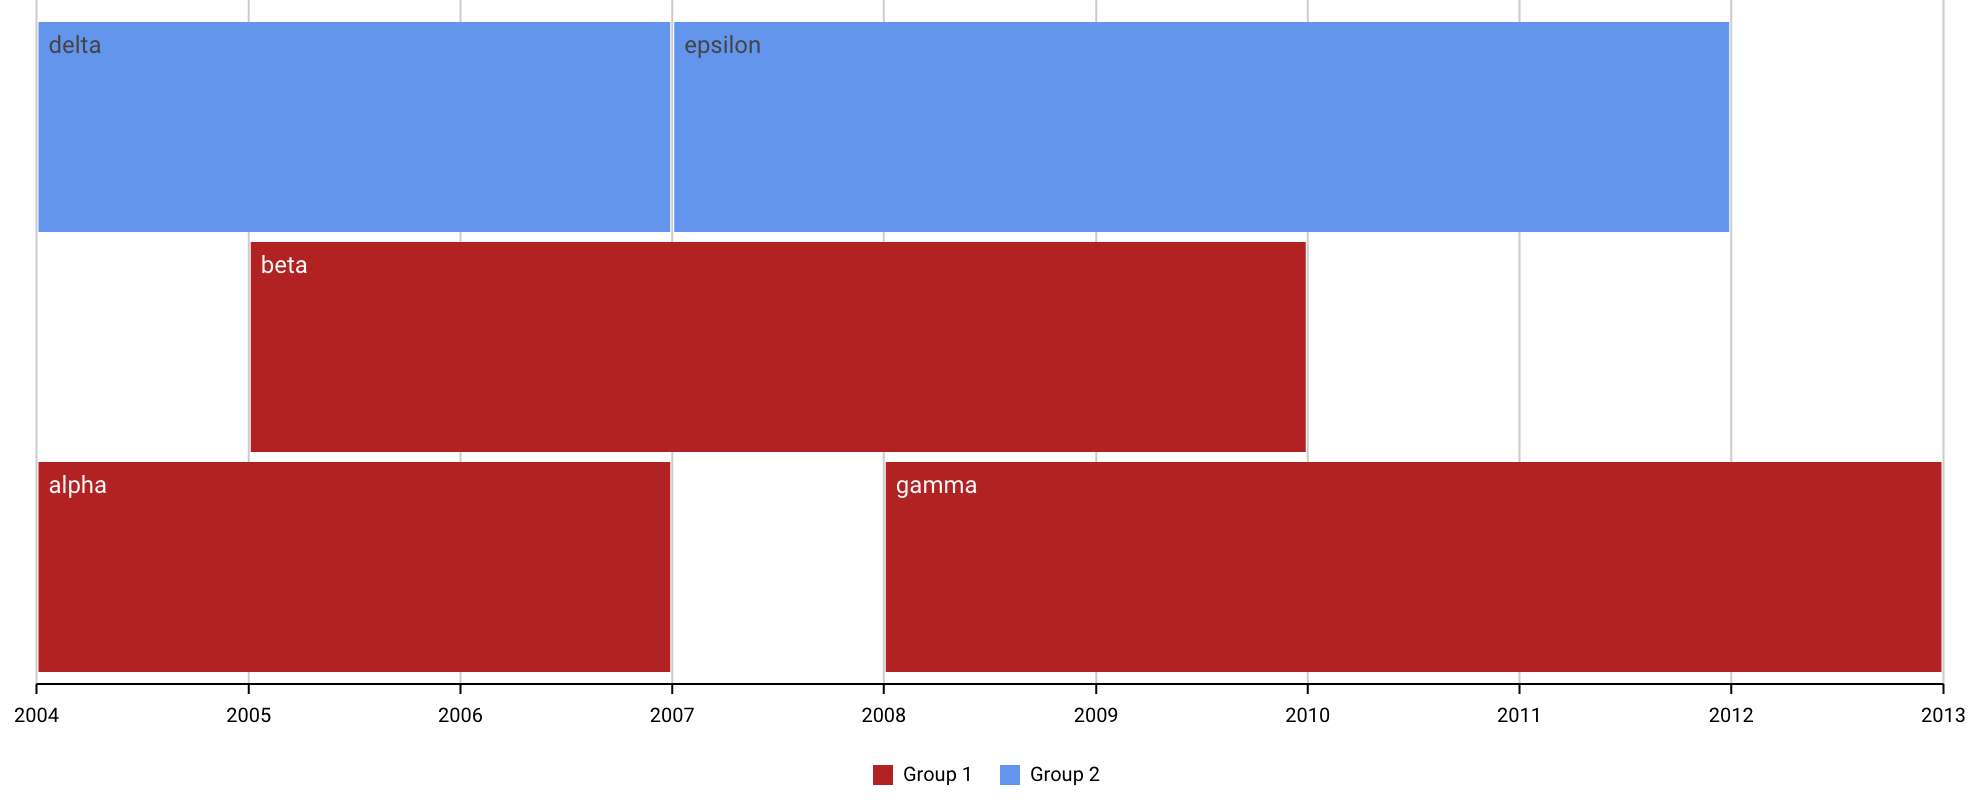
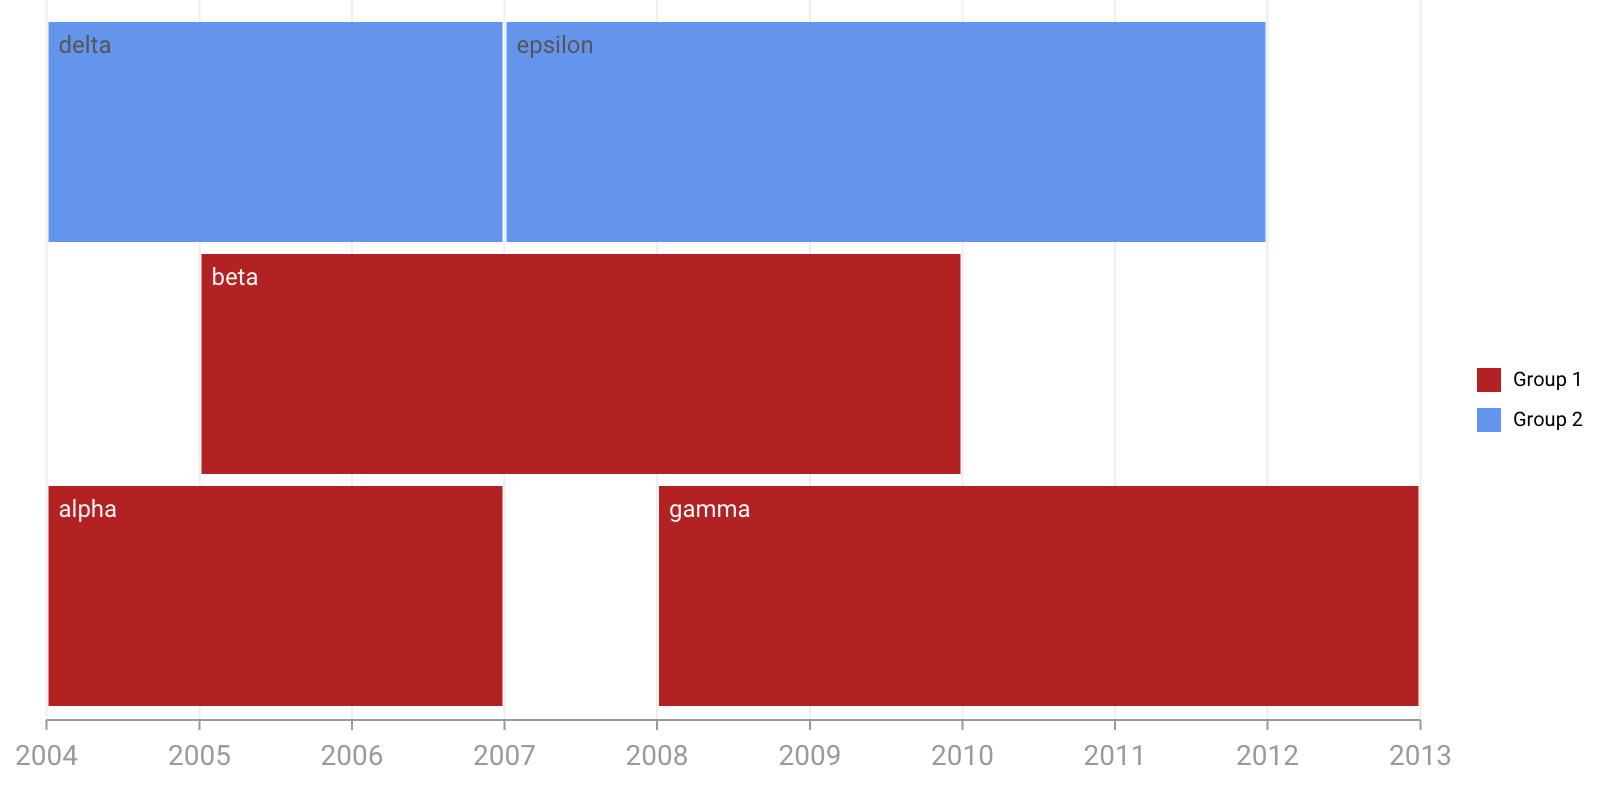
d3plus-priestley examples

diff --git a/_examples/d3plus-priestley/grouping/embed.html b/_examples/d3plus-priestley/grouping/embed.html
@@ -6,7 +6,7 @@
     <meta charset="utf-8">
     <title>Grouping Priestley Bars into Lanes | D3plus</title>
 
-    <script src="https://d3plus.org/js/d3plus-priestley.v0.4.full.min.js"></script>
+    <script src="https://d3plus.org/js/d3plus-priestley.v1.0.full.min.js"></script>
 
     <style>
 

diff --git a/_examples/d3plus-priestley/getting-started/embed.html b/_examples/d3plus-priestley/getting-started/embed.html
@@ -6,7 +6,7 @@
     <meta charset="utf-8">
     <title>Simple Priestley Diagram | D3plus</title>
 
-    <script src="https://d3plus.org/js/d3plus-priestley.v0.4.full.min.js"></script>
+    <script src="https://d3plus.org/js/d3plus-priestley.v1.0.full.min.js"></script>
 
     <style>
 

diff --git a/_examples/d3plus-priestley/grouping/index.md b/_examples/d3plus-priestley/grouping/index.md
@@ -2,8 +2,8 @@
 title: Grouping Priestley Bars into Lanes
 width: 800
 height: 400
-time: 1594762921412
-date: July 14, 2020
+time: 1612362174632
+date: February 03, 2021
 ---
 
 # Grouping Priestley Bars into Lanes

diff --git a/_examples/d3plus-priestley/getting-started/index.md b/_examples/d3plus-priestley/getting-started/index.md
@@ -2,8 +2,8 @@
 title: Simple Priestley Diagram
 width: 800
 height: 400
-time: 1594762921412
-date: July 14, 2020
+time: 1612362174632
+date: February 03, 2021
 ---
 
 # Simple Priestley Diagram
